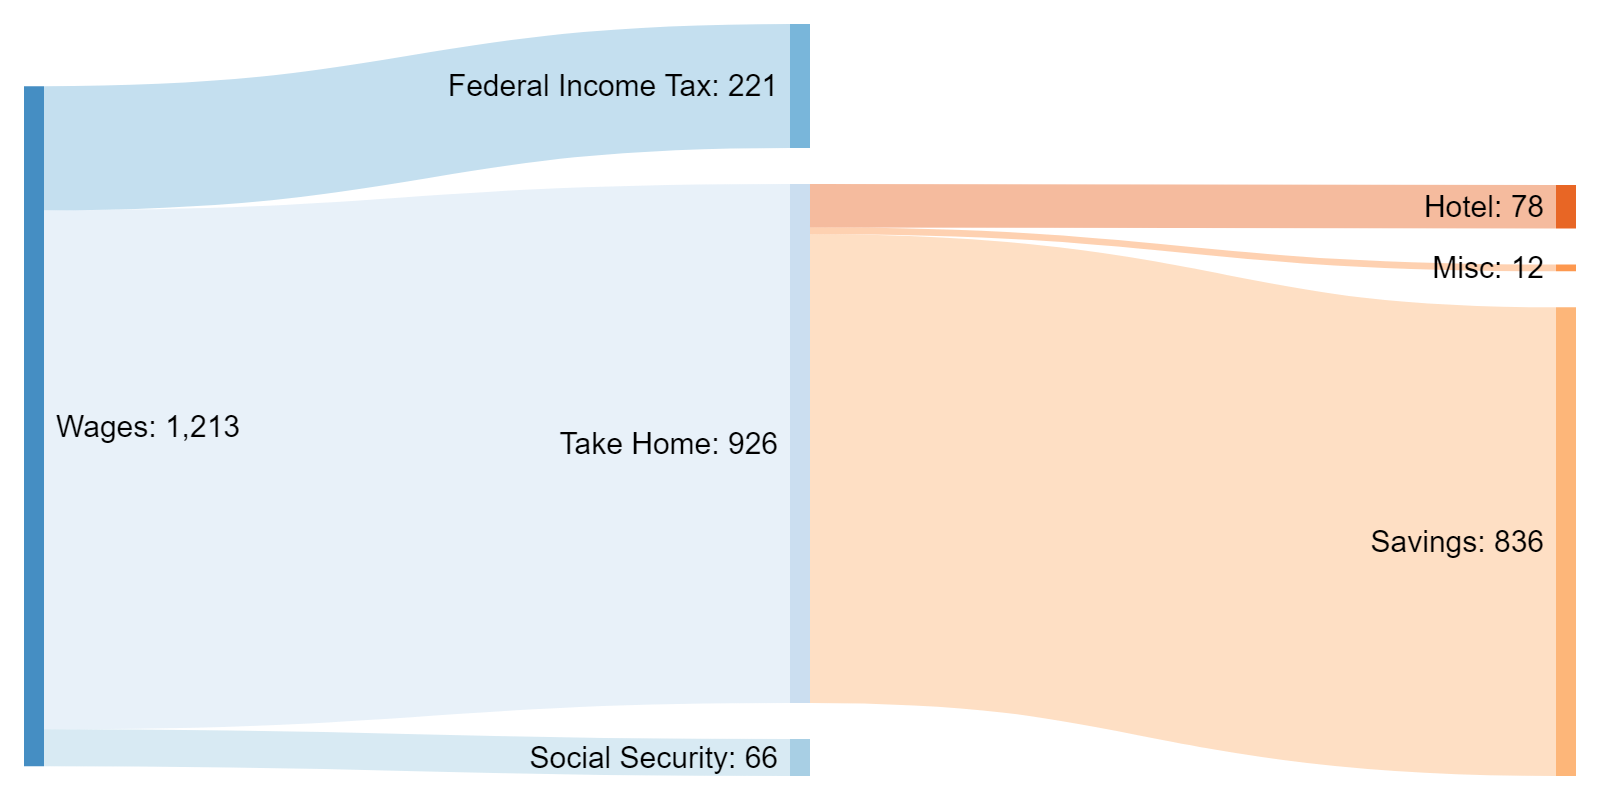
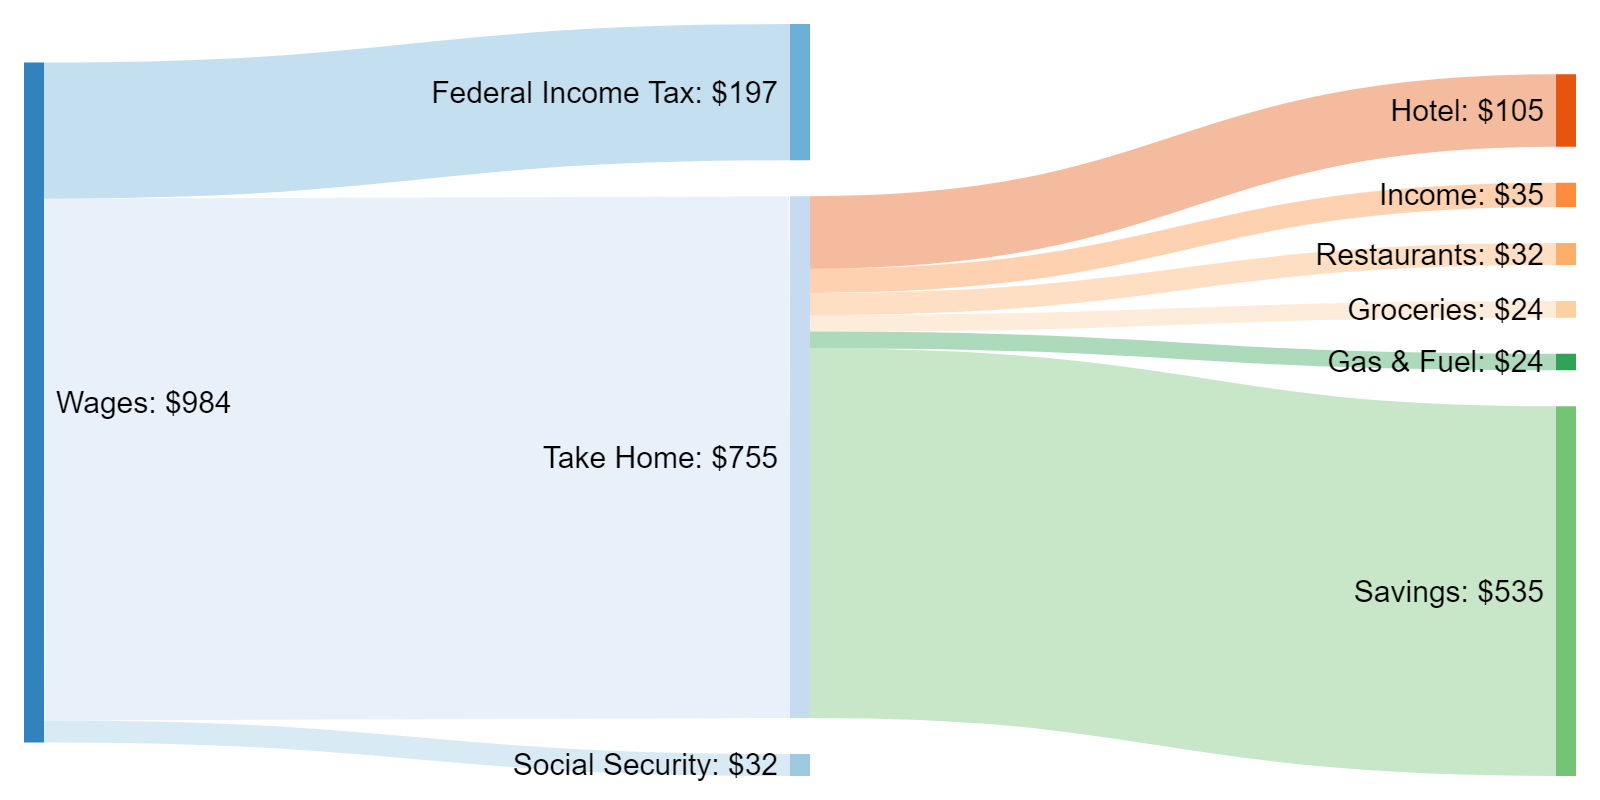
support percentage mode, improved README example
Now can output using percentages instead of just absolute values. Maybe I
can share my finances in a not ludicrous way? Hopefully!

Improved the README with a better example output. The old one used a very
filtered version of the example data, so it wasn't that appealing.

diff --git a/sankey_gen.py b/sankey_gen.py
@@ -37,8 +37,12 @@ def parse_csv(fname: str) -> List[Transaction]:
     return transactions
 
 
-def add_paystub(f: typing.IO, earnings: float, pretax_vals: Dict, *,
-                scale: float) -> int:
+def add_paystub(f: typing.IO,
+                earnings: float,
+                pretax_vals: Dict,
+                *,
+                scale: float = 2,
+                use_percent: bool = False) -> int:
     """Create SankeyMatic strings from configuration income+pretax info
 
     Args:
@@ -46,6 +50,7 @@ def add_paystub(f: typing.IO, earnings: float, pretax_vals: Dict, *,
         earnings: net income
         pretax_vals: dictionary with all pretax items and their value
         scale: scaling factor to apply to all values (based on time period)
+        use_percent:
 
         The format is:
             {Source} [{Amount}] {Type}
@@ -57,10 +62,18 @@ def add_paystub(f: typing.IO, earnings: float, pretax_vals: Dict, *,
     sorted_pretax = sorted(pretax_vals.items(), key=lambda kv: kv[1])
     sorted_pretax.reverse()
     for name, value in sorted_pretax:
-        f.write(f'Wages [{int(value * scale)}] {name}\n')
+        if use_percent:
+            f.write(f'Wages [{int(100 * value / earnings)}] {name}\n')
+        else:
+            f.write(f'Wages [{int(value * scale)}] {name}\n')
+
         take_home -= value * scale
 
-    f.write(f'Wages [{int(take_home)}] Take Home\n')
+    if use_percent:
+        f.write(
+            f'Wages [{int(100 * take_home / earnings / scale)}] Take Home\n')
+    else:
+        f.write(f'Wages [{int(take_home)}] Take Home\n')
     return int(take_home)
 
 
@@ -167,10 +180,16 @@ def add_transactions(f: typing.IO, transactions: List[Transaction],
     sorted_cat = sorted(summed_categories.items(), key=lambda kv: kv[1])
     sorted_cat.reverse()
     for name, value in sorted_cat:
-        f.write(f'Take Home [{value}] {name}\n')
+        if config['transactions']['use_percentages']:
+            f.write(f'Take Home [{int(100 * value / take_home)}] {name}\n')
+        else:
+            f.write(f'Take Home [{value}] {name}\n')
         expenditure += value
 
-    savings = take_home - expenditure
+    if config['transactions']['use_percentages']:
+        savings = int(100 * (take_home - expenditure) / take_home)
+    else:
+        savings = take_home - expenditure
     f.write(f'Take Home [{savings}] Savings\n')
 
 
@@ -207,7 +226,8 @@ def main(*, config_file: str = None):
         output_file,
         config['paycheck']['net_earnings'],
         config['paycheck']['pretax'],
-        scale=scale)
+        scale=scale,
+        use_percent=config['transactions']['use_percentages'])
 
     add_transactions(output_file, transactions, take_home, config)
 

diff --git a/README.md b/README.md
@@ -8,17 +8,22 @@
 You can see an example input file in [`data/test-data.csv`](data/test-data.csv), which will generate output like so:
 
 ```
-Wages [221] Federal Income Tax
-Wages [66] Social Security
-Wages [926] Take Home
-Take Home [78] Hotel
-Take Home [12] Misc
-Take Home [836] Savings
+Wages [197] Federal Income Tax
+Wages [32] Social Security
+Wages [755] Take Home
+Take Home [105] Hotel
+Take Home [35] Income
+Take Home [32] Restaurants
+Take Home [24] Groceries
+Take Home [24] Gas & Fuel
+Take Home [535] Savings
 ```
 
 You can then copy-paste this away into SankeyMatic and get the following plot:
 
 ![SankeyMatic sample data](img/sankeymatic_sample_output.png)
+
+There's also a flag in the config to `use_percentages`, which will output relative, not absolute values. It's a little buggy as I go back and forth on whether or not I want to noramlize by level or to the "global" input. Maybe it'll help you!
 
 ## Getting Started
 
@@ -40,12 +45,6 @@ Copy `config-sample.toml` to `config.toml` and edit away.
 ### Running
 
 Run the tool with `python sankey_gen.py`. The default output file is `output.txt`. Copy the contents of that file into [SankeyMatic](http://sankeymatic.com) and enjoy!
-
-## TODOs
-
-High level features I'd like to add:
-
-* Add percentage output as opposed to just absolute values
 
 ## Style & Formatting
 
